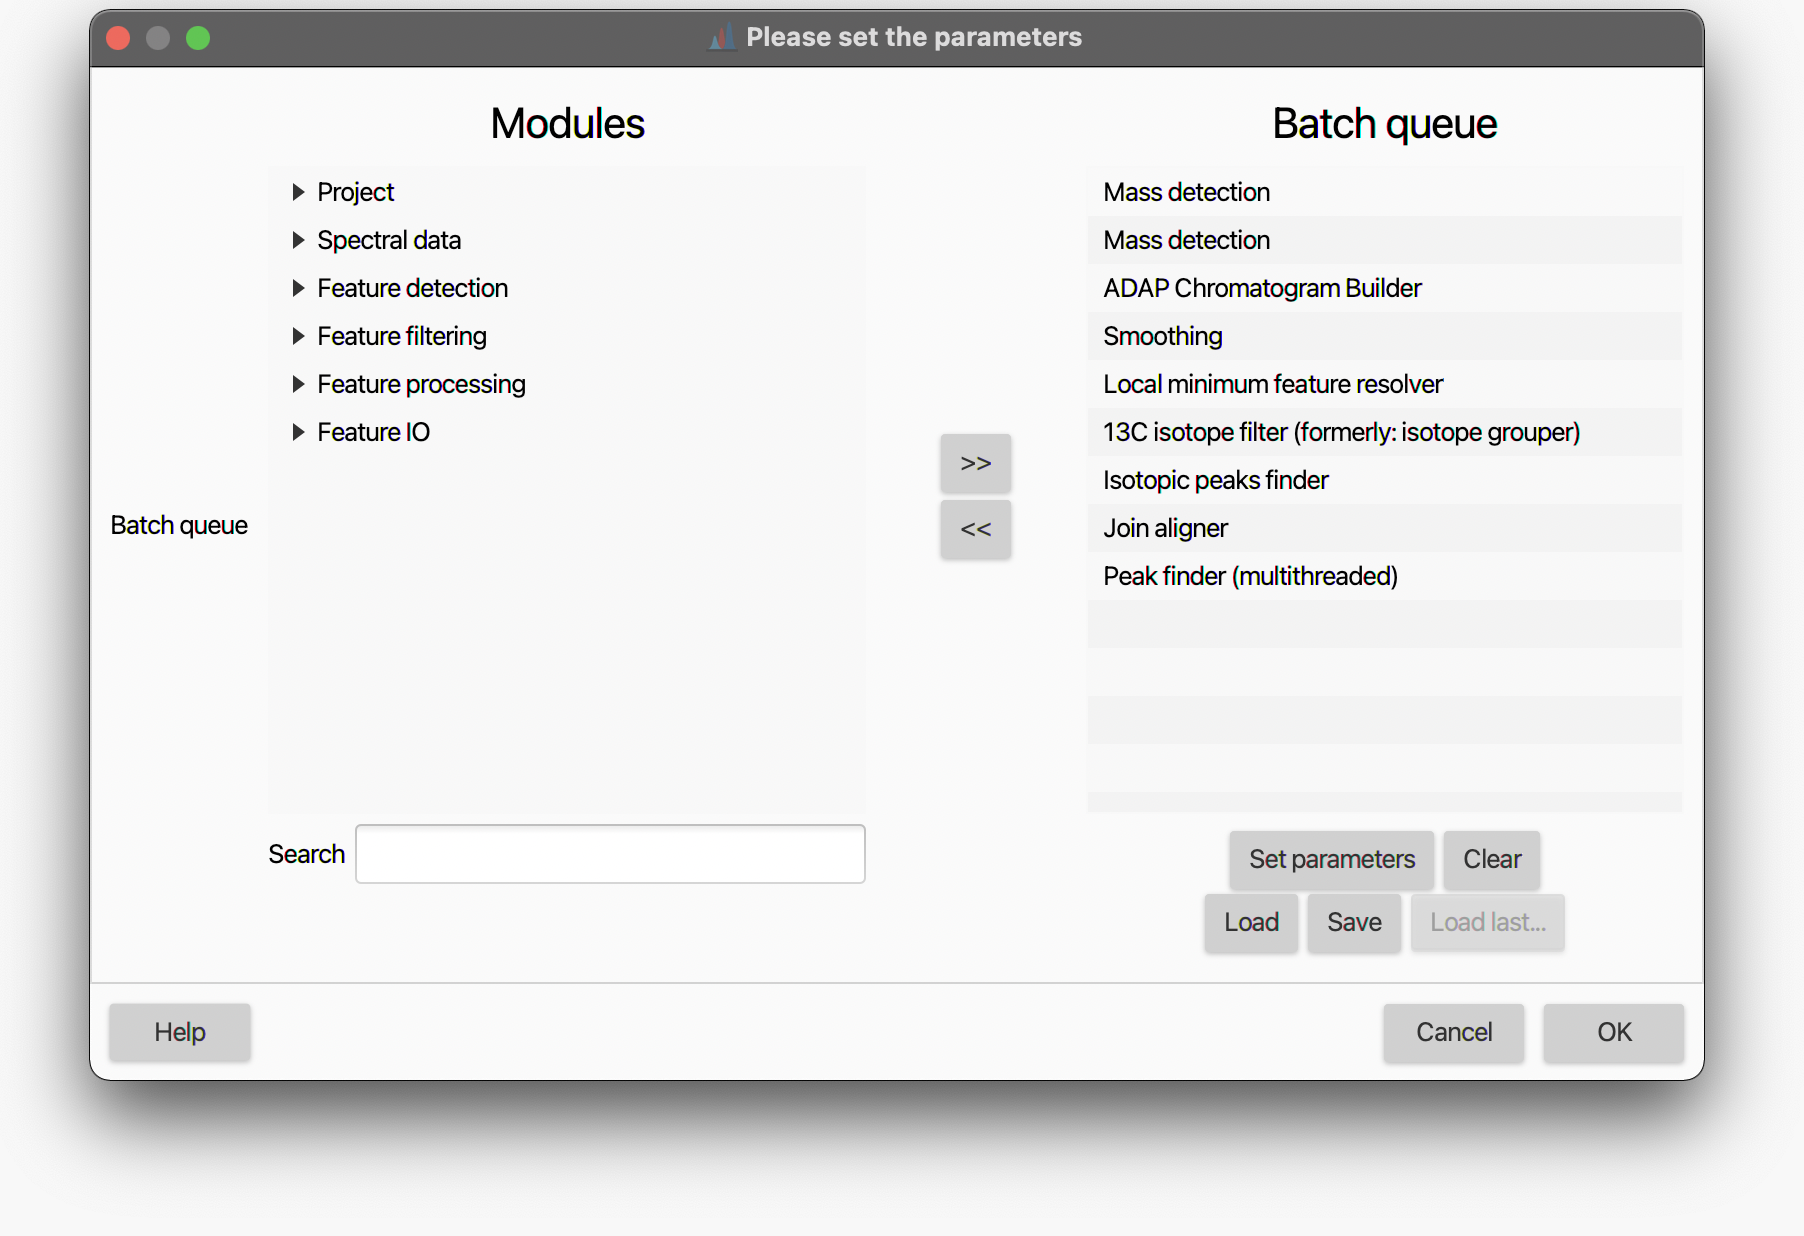
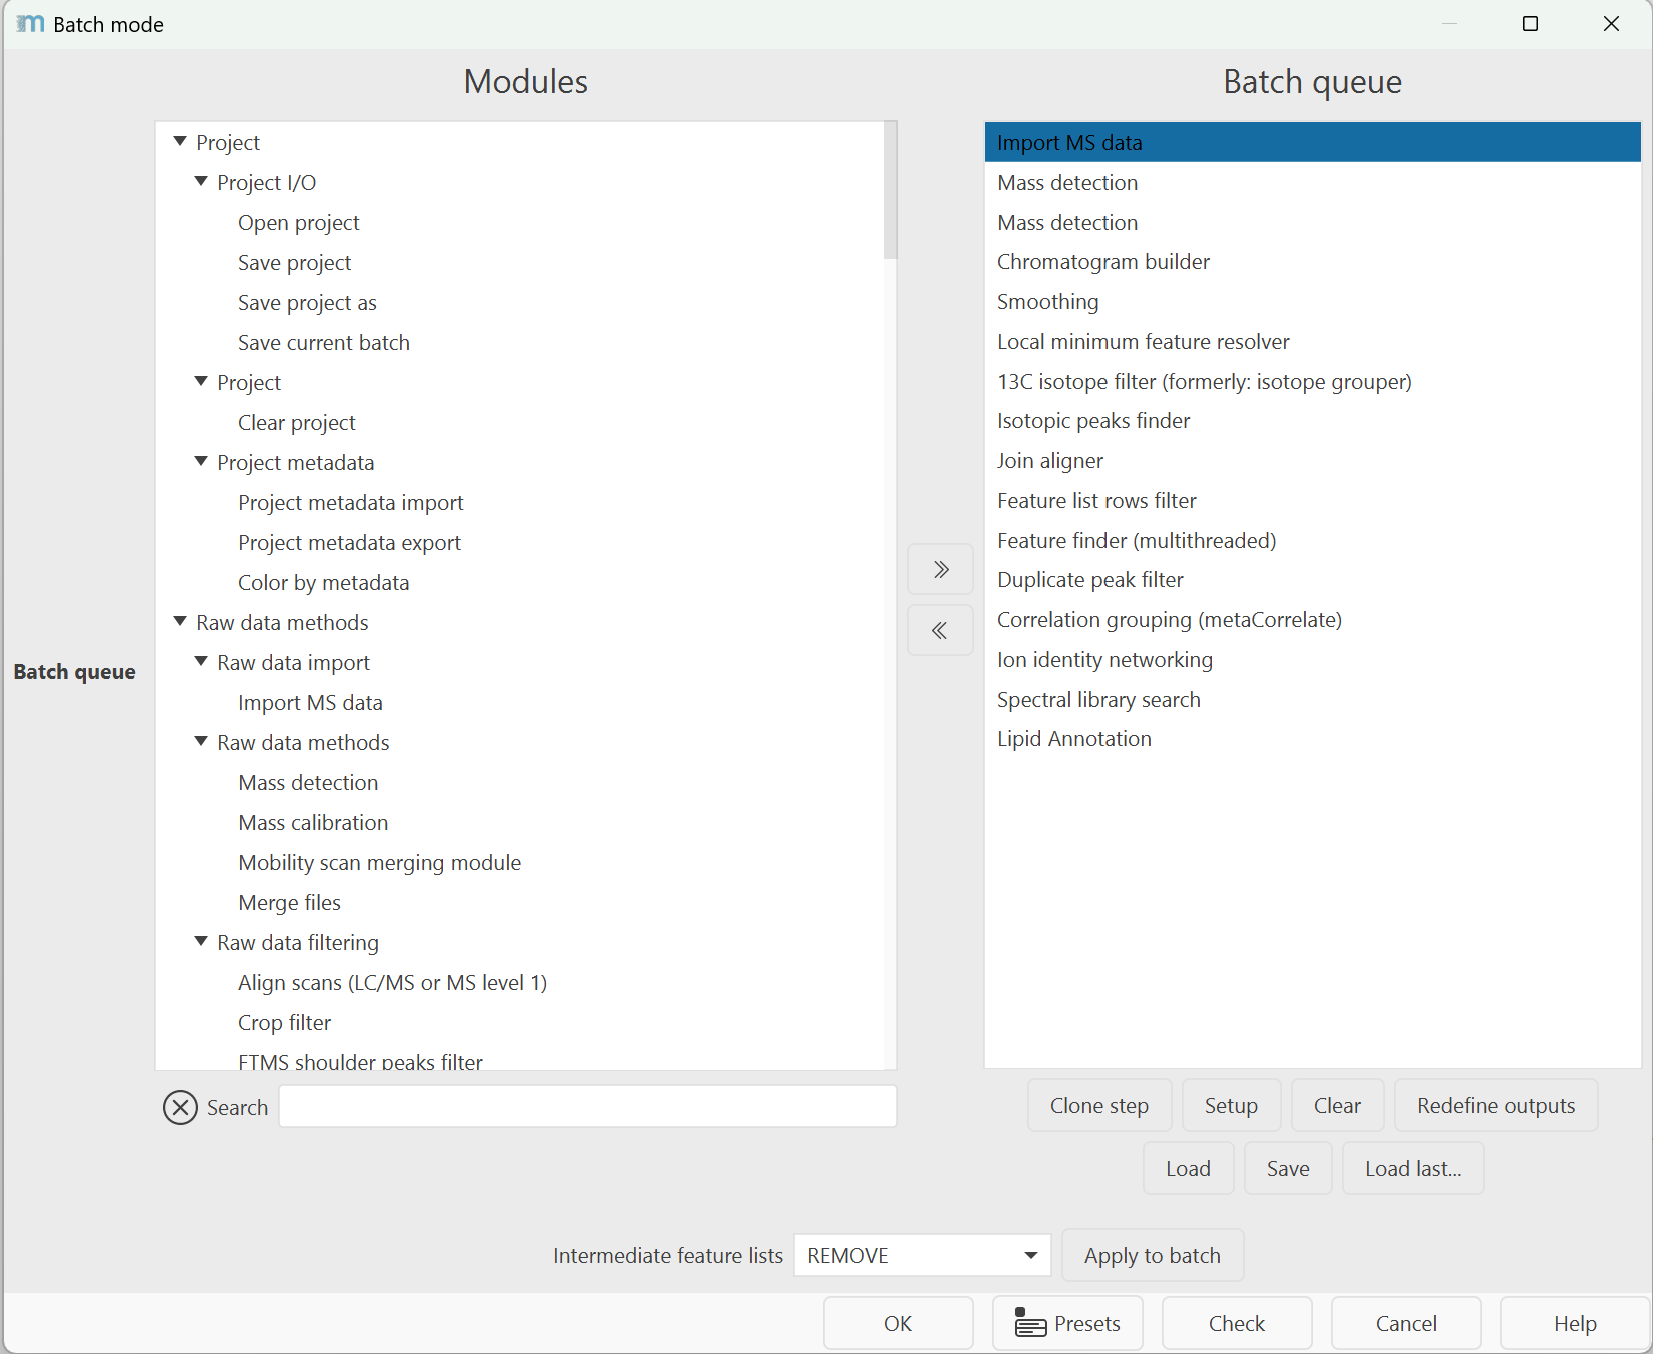
update batch mode

diff --git a/docs/workflows/batch_processing/batch-processing.md b/docs/workflows/batch_processing/batch-processing.md
@@ -1,8 +1,12 @@
 # **Batch processing**
 
-Besides the interactive [GUI](../../main-window-overview.md), MZmine allows the user to run processing workflows in an automated manner using the "batch mode". Entire processing pipelines (including data import/export) can be run with few clicks, or even through the command-line application. This makes MZmine suitable to be integrated into automated data analysis pipelines (e.g. QC systems).
+Besides the interactive [GUI](../../main-window-overview.md), mzmine allows the user to run processing workflows in an 
+automated manner using the "batch mode". Entire processing pipelines (including data import/export) 
+can be run with few clicks, or even through the command-line application. This makes MZmine suitable
+to be integrated into automated data analysis pipelines (e.g., QC systems).
 
-Batch files (XML format) are essentially lists of tasks run by MZmine one after another. Any of the methods available in MZmine 3 can be included in the batch file.
+Batch files (XML format) are essentially lists of tasks run by mzmine one after another. Any of the 
+methods available in mzmine can be included in the batch file.
 
 ---
 ## **How to run batch processing**
@@ -10,43 +14,39 @@ Batch files (XML format) are essentially lists of tasks run by MZmine one after 
 **Project :material-arrow-right-thin: Batch mode**
 ![batch-mode](batch_mode.png)
 
-When a new step is added to the queue its parameter setup dialog is shown. The "Set paramaters" button allows the user to modify a step's parameter settings. The "Clear" button removes all steps. The "Load" and "Save" buttons make it possible to read and write batch steps to XML files.
+When a new step is added to the queue its parameter setup dialog is shown. The "Set parameters" 
+button allows the user to modify a step's parameter settings. The "Clear" button removes all steps. 
+The "Load" and "Save" buttons make it possible to read and write batch steps to XML files.
 
-The first step of a batch queue is performed on those raw data files and/or peak lists selected by the user. The remaining steps are performed on the results produced by each preceding step (File/Feature list selection must be set to _Those created by previous batch step_). For example, if the first step of the batch queue is the [Chromatogram builder](../../module_docs/lc-ms_featdet/featdet_adap_chromatogram_builder/adap-chromatogram-builder.md), it will produce peak lists as a result. If the following step were Peak list deconvolution then it will be performed on the peak lists produced by the preceding Chromatogram builder step.
+!!! tip
 
-:octicons-alert-16: **Tip** MZmine "remembers" the last settings used.
+    **Redefine outputs** is a quick aid to set a new file path and base filename to all export modules 
+    (e.g., the feature list CSV export). Each step will add a suffix for the user to identify the 
+    output files. If one module exists multiple times, the suffix will also contain a numbering.
 
+The first step of a batch queue is performed on those raw data files and/or feature lists selected
+by the user. The remaining steps are performed on the results produced by each preceding step 
+(File/Feature list selection must be set to _Those created by previous batch step_). For example, 
+if the first step of the batch queue is the [Chromatogram builder](../../module_docs/lc-ms_featdet/featdet_adap_chromatogram_builder/adap-chromatogram-builder.md), it will produce feature 
+lists as a result. If the following step were Peak list deconvolution then it will be performed 
+on the peak lists produced by the preceding Chromatogram builder step.
 
-# Processing wizard
-The processing wizard is inteded to quickly set up a general workflow for the processing of untargeted LC-MS and LC-IM-MS data. By clicking the "Set default" button, default settings for mass and feature detection are also provided according to the selected MS type (Orbitrap or TOF) and LC system (UHPLC or HPLC). Once the desired parameters have been set, hit the "Build batch" botton and a pre-populated batch window will open up.
-
-**Tools :material-arrow-right-thin: Processing wizard**
-![wizard](processing_wizard.png)
-
- 
-### **Mass spectrometers presets**
-MS type: When TOF is selected, the "Ion mobility" can be enabled <br>
-MS1 and MS2 noise level: <br>
-Minimum feature height: <br>
-Scan to scan m/z tolerance: <br>
-Feature to feature m/z tolerance: <br>
-
-### **HPLC presets**
-Stable ionization across samples: <br>
-Crop retention time: <br>
-Max peaks in chromatogram: <br>
-Min samples per aligned feature: <br>
-Min # of data points: <br>
-Approximate feature FWHM: <br>
-Intra-sample RT tolerance: <br>
-Inter-sample RT tolerance: <br>
-Only keep feature with 13C: <br>
-Original feature list: <br>
-Export path: <br>
+:octicons-alert-16: **Tip** mzmine "remembers" the last settings used.
 
 
-!!! warning 
+!!! tip
 
-    The default settings were optimized on sample datasets used during the MZmine 3 development. Although probably suitable for many appications, it is strongly recommended not to blindly rely on them. Rather, optimal processing parameters should be chosen based on the LC-(IM)-MS system performance and data acquisition settings.
+    **Intermediate feature lists** is an option to apply the same handling of intermediate results 
+    to all batch steps. For example set all to keep during batch optimization or to remove/process 
+    in place, to run a final batch with maximum performance.
+
+
+# mzwizard
+The [**mzwizard**](../../wizard.md) facilitates quick set up of general workflows for various sample introduction systems, (ion mobility) mass spectrometers, and workflows.
+This is the recommended way to configure workflows and create batch files. Batch files can then be modified further to improve results or to add more export steps. 
+
+**mzwizard :material-arrow-right-thin: Processing wizard**
+
+![logo300_mzwizard.png](../../img/logo300_mzwizard.png)
 
 {{ git_page_authors }}

diff --git a/docs/wizard.md b/docs/wizard.md
@@ -30,7 +30,7 @@ setup.
 
 ## mzwizard parameter tabs
 
-![Processing wizard](img/wizard.png)
+![mzwizard](img/wizard.png)
 
 ## [1] Data import
 
